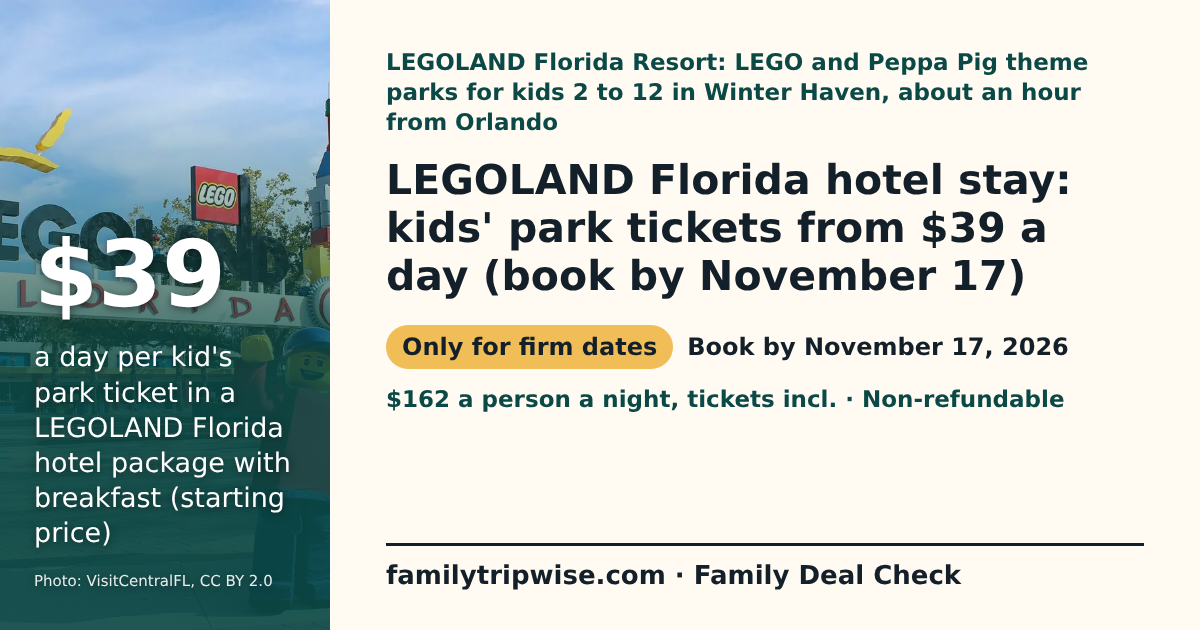
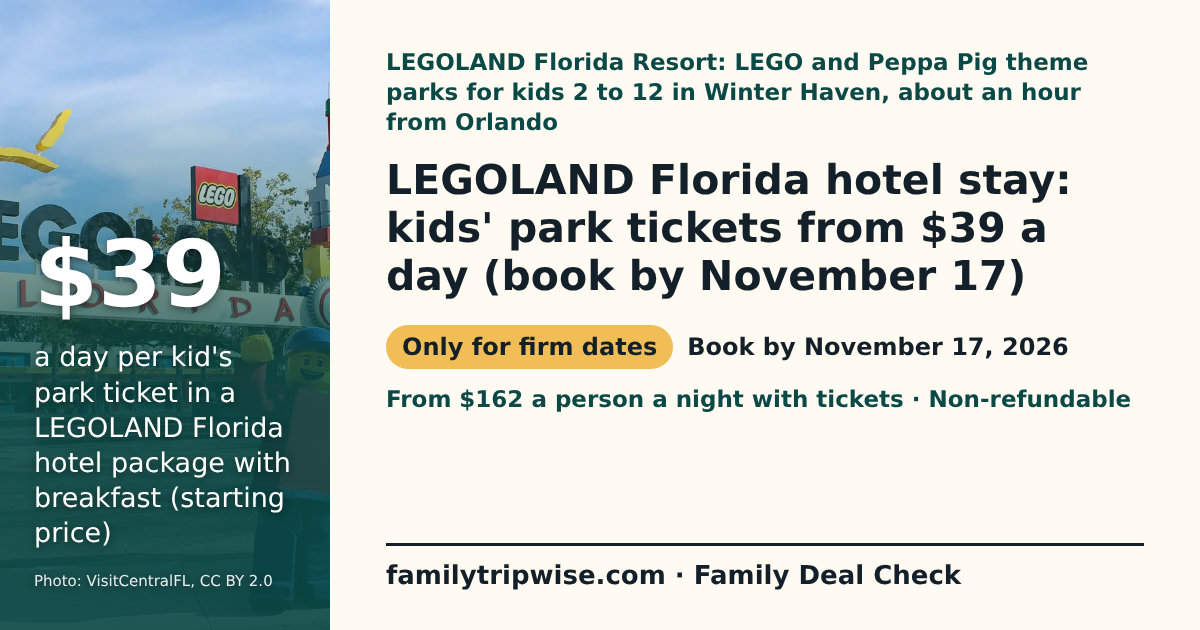
G11: LEGOLAND Florida chip keeps 'From' (starting price); breakfast reading recorded

Changed region(s): [[0.3083, 0.6032, 0.9558, 0.6635]]

diff --git a/site/deals/legoland-florida-hotel-kids-tickets-39.html b/site/deals/legoland-florida-hotel-kids-tickets-39.html
@@ -26,7 +26,7 @@
           <div>
             <p class="eyebrow deal-context">LEGOLAND Florida Resort: LEGO and Peppa Pig theme parks for kids 2 to 12 in Winter Haven, about an hour from Orlando</p>
             <h1>LEGOLAND Florida hotel stay: kids&#39; park tickets from $39 a day (book by November 17)</h1>
-            <ul class="deal-chips" aria-label="Key terms"><li class="deal-chip-verdict deal-verdict-only_for">Only for firm dates</li><li>Book by November 17, 2026</li><li>$162 a person a night, tickets incl.</li><li>Non-refundable</li></ul>
+            <ul class="deal-chips" aria-label="Key terms"><li class="deal-chip-verdict deal-verdict-only_for">Only for firm dates</li><li>Book by November 17, 2026</li><li>From $162 a person a night with tickets</li><li>Non-refundable</li></ul>
             
             <p class="contributor-credit">AI research contributor: <a href="../contributors/miles-rowan.html">Miles Rowan</a></p>
           </div>

diff --git a/docs/research/deal-checks-2026-10-30.md b/docs/research/deal-checks-2026-10-30.md
@@ -74,6 +74,6 @@ Lead: LEGOLAND's own Florida deals pages (official search result, 2026-10-30). r
 | Wikimedia Commons photo | https://commons.wikimedia.org/wiki/File:LEGOLAND%C2%AE_Florida_(8132540205).jpg | 2026-10-30 (self-host-images workflow) | Entrance arch with LEGO figure and cake; CC BY 2.0; VisitCentralFL (Flickr); taken 2012-10-09 | New hero photo, self-hosted as site/images/legoland-florida-entrance.webp |
 
 Further facts read on the same pages on 2026-10-30 and used in the record: kids' tickets offer page: "subject to availability", "limited rooms per date", blackout dates may apply, hotel offer includes "access to seasonal events", ticket type "depends on stay dates and is shown during booking", not combinable with "other offers, discounts, promotions, or group rates"; package page: Brick or Treat "Select Dates Now - Nov. 1", LEGOLAND Christmas Bricktacular "Select Dates Nov 21 - Jan 3", not combinable with "other discounts, promotions, or pre-purchased tickets"; help page: LEGOLAND Theme Park "over 50 rides, shows, and attractions"; Peppa Pig Theme Park "A separate park just steps away, perfect for preschoolers" with gentle rides, themed play areas and meet-and-greets; SEA LIFE Florida with "ocean tunnels" in an indoor setting; Cypress Gardens Botanical Garden.
-Interpretation (ours, labelled on the page): the USD 162 per-person starting price is the hotel + ticket package price, so the USD 39-a-day kids' ticket is read as part of it, not an extra charge.
+Interpretation (ours, labelled on the page): the USD 162 per-person starting price is the hotel + ticket package price, so the USD 39-a-day kids' ticket is read as part of it, not an extra charge. The daily hot breakfast is listed on both the kids' tickets offer page (hotel offer inclusions) and the package page; we read them as one offer.
 
 Novelty: a quick search (2026-10-30) found no news coverage of this hotel offer (third-party ticket guides only). No family total for named dates was observed (no booking-engine search), so the page shows the advertised family-of-4 basis and "price your dates"; no saving figure is stated. Next (G12): a Google Hotels sample for a LEGOLAND Florida hotel for a named family party and dates.
